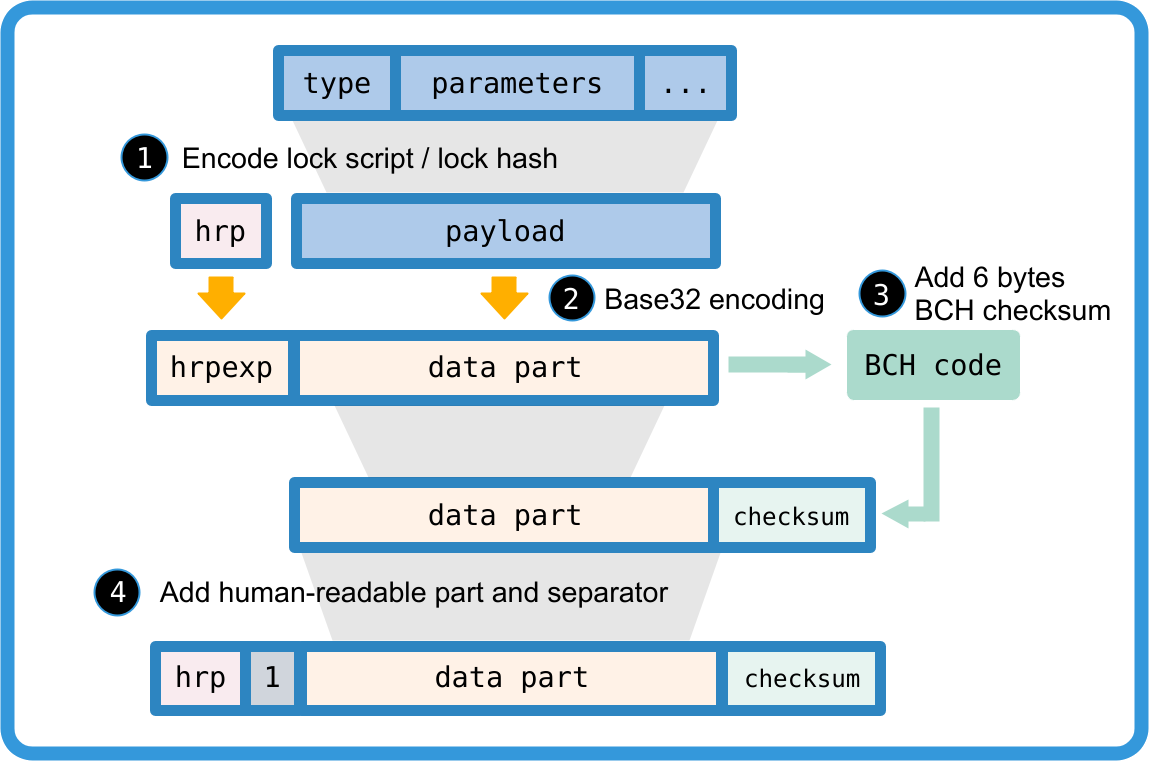
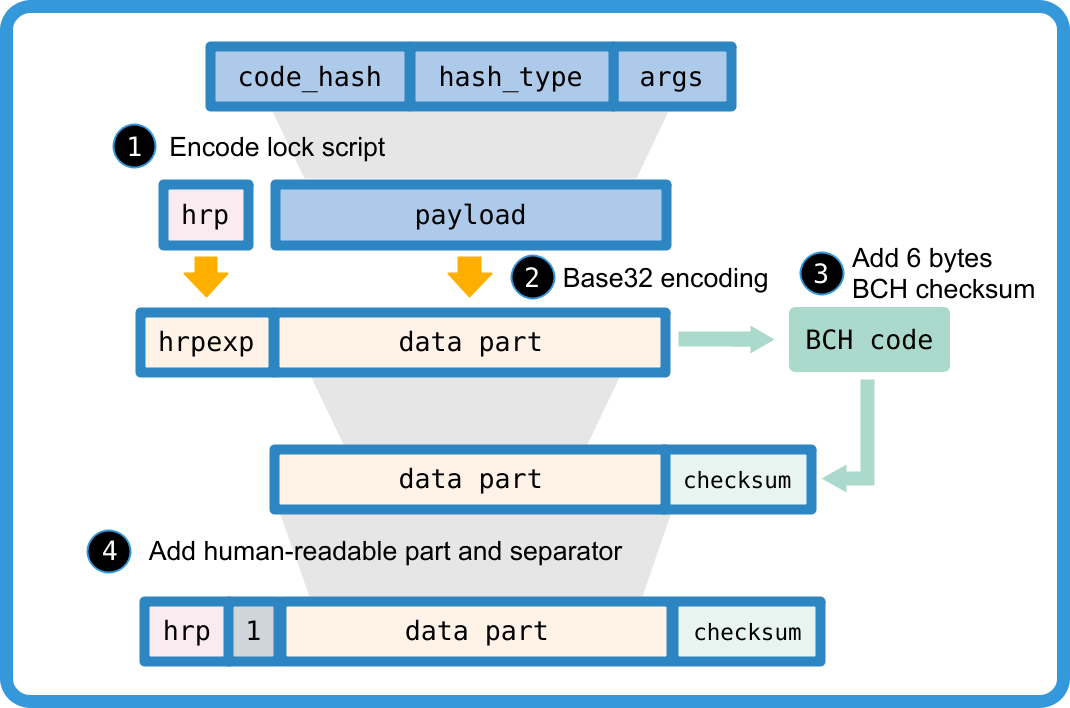
Change address format according to RFC0022

diff --git a/rfcs/0000-address-format/0000-address-format.md b/rfcs/0000-address-format/0000-address-format.md
@@ -11,124 +11,86 @@ Created: 2019-01-20
 
 ## Abstract
 
-CKB Address Format is an application level *lock hash* display recommendation. *lock hash*  is the 256bit Blake2b hash result of *lock script*. The lock script consists of two key parameters, including *code hash* and *arguments*. To provide lock hash, one could use the original lock script, or directly the hash of the script.
+*CKB Address Format* is an application level cell **lock script** display recommendation. The lock script consists of three key parameters, including *code_hash*, *hash_type* and *args*. CKB address packages lock script into a single line, verifiable, and human read friendly format.
 
-In the consideration of user experience, it is necessary to wrap the raw data structure into a verifiable and extensible format.
+## Data Structure
 
-## Solution
+### Payload Format Types
 
-CKB Address Format follows [Bitcoin base32 address format (BIP-173)][bip173] rules, which wraps data in **Bech32** encoding and a [BCH checksum][bch].
+To generate a CKB address, we firstly encode lock script to bytes array, name *payload*. And secondly, we wrap the payload into final address format.
 
-A Bech32 string is at most 90 characters long and consists of the **human-readable part**, the **separator**, and the **data part**. The last 6 characters of data part is checksum. The data part is base32 encoded. Here is the readable translation of base32 encoding table.
+There are several methods to convert lock script into payload bytes array. We use 1 byte to identify the payload format.
 
-|0|1|2|3|4|5|6|7|
-|-|-|-|-|-|-|-|-|
-|**+0**|q|p|z|r|y|9|x|8|
-|**+8**|g|f|2|t|v|d|w|0|
+| format type |                   description                  |
+|:-----------:|------------------------------------------------|
+|  0x01       | short version for locks with popular code_hash |
+|  0x02       | full version with hash_type = "Data"           |
+|  0x04       | full version with hash_type = "Type"           |
+
+### Short Payload Format
+
+Short payload format is a compact format which identifies common used code_hash by 1 byte code_hash_index instead of 32 bytes code_hash.
+
+```c
+payload = 0x01 | code_hash_index | single_arg
+```
+
+To translate payload to lock script, one can convert code_hash_index to code_hash and hash_type with the following *popular code_hash table*. And single_arg as the args.
+
+
+| code_hash_index |        code_hash     |   code_type  |      args     |
+|:---------------:|----------------------|--------------|---------------|
+|      0x00       | SECP256K1 + blake160 |     Data     |  blake160(PK) |
+
+\* The blake160 here means the leading 20 bytes truncation of Blake2b hash result.
+
+### Full Payload Format
+
+Full payload format directly encodes all data field of lock script.
+
+```c
+payload = 0x02/0x04 | code_hash | len(arg[0]) | arg[0] | ...
+```
+
+The first byte identifies the lock script's hash_type, 0x02 for "Data", 0x04 for "Type". We convert every element of args to plain bytes array format, and add a length number in front of every array. To keep it simple, we limit every argument size to maxium 256, which is 1 byte.
+
+## Wrap to Address
+
+We follow [Bitcoin base32 address format (BIP-173)][bip173] rules to wraps payload in to address, which ueses Bech32 encoding and a [BCH checksum][bch].
+
+The original version of Bech32 allows at most 90 characters long. Similar with [BOLT][BOLT_url], we simply remove the length limit. The error correction function is disabled when the Bech32 string is longer than 90. We don't intent to use this function anyway, because there is a risk to get wrong correction result.
+
+A Bech32 string consists of the **human-readable part**, the **separator**, and the **data part**. The last 6 characters of data part is checksum. The data part is base32 encoded. Here is the readable translation of base32 encoding table.
+
+|       |0|1|2|3|4|5|6|7|
+|-------|-|-|-|-|-|-|-|-|
+|**+0** |q|p|z|r|y|9|x|8|
+|**+8** |g|f|2|t|v|d|w|0|
 |**+16**|s|3|j|n|5|4|k|h|
 |**+24**|c|e|6|m|u|a|7|l|
-
 
 The human-readable part is "**ckb**" for CKB mainnet, and "**ckt**" for the testnet. The separator is always "1".
 
 ![](images/ckb-address.png)
 
-## Payload
+## Examples and Demo Code
 
-The first step to encode lock hash or lock script into address is to encode them to payload. We use type field in payload to identify different encoding methods according to different user scenario needs, and parameter fields to represent extensional data.
+```py
+    # for short payload format
+    pk = "13e41d6F9292555916f17B4882a5477C01270142"
+    address = "ckb1qyqp8eqad7ffy42ezmchkjyz54rhcqf8q9pqrn323p"
 
-```
-payload = type | parameter1 | parameter2 | ...
-```
-
-|   type     |    parameter1    | parameter2  |  lock hash / script |
-|-----------|---------------------|------------------|------------------------|
-|    0x00    |      lock hash      |              --           |         lock hash        |
-|    0x01    |   1 byte index    |  PK/PKHash  | lock script = {code_hash: table[p1], args:[p2]} |
-|  <TBD>  |              --               |             --            |                  --                |
-
-Type 0  simply wraps the lock hash to an address. Type 1 is a compact format which identifies common used code hash by 1 byte code hash index instead of 32 bytes code hash. Other type number address formats are to be defined.
-
-Note that current payload types only support 1 lock script argument (in parameter2 field). However, it is easy to be extended to support multiple arguments.
-
-### Code Hash Index
-
-Type 1 of ckb address format uses 1 byte index to refer to common used code hash. Here is a predefined code hash table.
-
-|     code hash index  | code_hash    | args |
-|--------------------------|------------------|-------|
-|                0x00               | SECP256K1 + blake160 | blake160(PK)  |
-
-The blake160 here means the first 20 bytes truncation of Blake2b hash function.
-
-## Examples
-
-### Encode lock hash to type 0 address
-
-Suppose we have
-
-`
-lock_hash = 0xcdf2b97ef29371a53482cf977ac0c1319cc2e102e6ac8185e973c89996b4eaf7`
-
-then,
-
-`payload = 0x00 | lock_hash`
-
-Calculate the base32 format of hrp and payload.
-```c
-Base32(hrp) = "rrrqrtz"
-Base32(payload) = "qrxl9wt772fhrff5st8ew7kqcyceeshpqtn2eqv9a9eu3xvkkn40w"
-```
-Calculate checksum
-```c
-checksum = BCH_checksum(Base32(hrp) | Base32(payload)) = v6tu2p
-```
-Add up together
-
-```c
-address = hrp | 1 | Base32(payload) | checksum 
-        = "ckb1qrxl9wt772fhrff5st8ew7kqcyceeshpqtn2eqv9a9eu3xvkkn40wv6tu2p"
+    # for full payload format
[1 lines of base64/hex data omitted]
+    hash_type = "Data"
+    args = ['dde7801c073dfb3464c7b1f05b806bb2bbb84e99', '00c1ddf9c135061b7635ca51e735fc2b03cee339']
[1 lines of base64/hex data omitted]
 ```
 
-### Encode lock script to type 1 address
-
-The original lock script is,
-
-```js
-{
-    args: ['13e41d6F9292555916f17B4882a5477C01270142'],
-    code_hash: 0x48a2ce278d84e1102b67d01ac8a23b31a81cc54e922e3db3ec94d2ec4356c67c
-}
-```
-
-Suppose that the code_hash is from secp256k1 with blake160 algorithm implementation binary. And the sole parameter of args is secp256k1 public key's blake160 result. We could simply encode the lock script into P2PH address format.
-
-Firstly, compact lock script to payload.
-
-```c
-payload = 0x01 | 0x00 | 0x13e41d6F9292555916f17B4882a5477C01270142
-```
-
-Calculate the base32 format of hrp and payload.
-
-```c
-Base32(hrp) = "rrrqrtz"
-Base32(payload) = "qyqp8eqad7ffy42ezmchkjyz54rhcqf8q9pq"
-```
-
-Calculate checksum
-
-```c
-checksum = BCH_checksum(Base32(hrp) | Base32(payload)) = rn323p
-```
-
-Add up together
-
-```c
-address = hrp | 1 | Base32(payload) | checksum 
-        = "ckb1qyqp8eqad7ffy42ezmchkjyz54rhcqf8q9pqrn323p"
-```
+Demo code: https://github.com/CipherWang/ckb-address-demo 
 
 [bip173]: https://github.com/bitcoin/bips/blob/master/bip-0173.mediawiki
 
 [bch]: https://en.wikipedia.org/wiki/BCH_code
+
+[BOLT_url]: https://github.com/lightningnetwork/lightning-rfc/blob/master/11-payment-encoding.md
